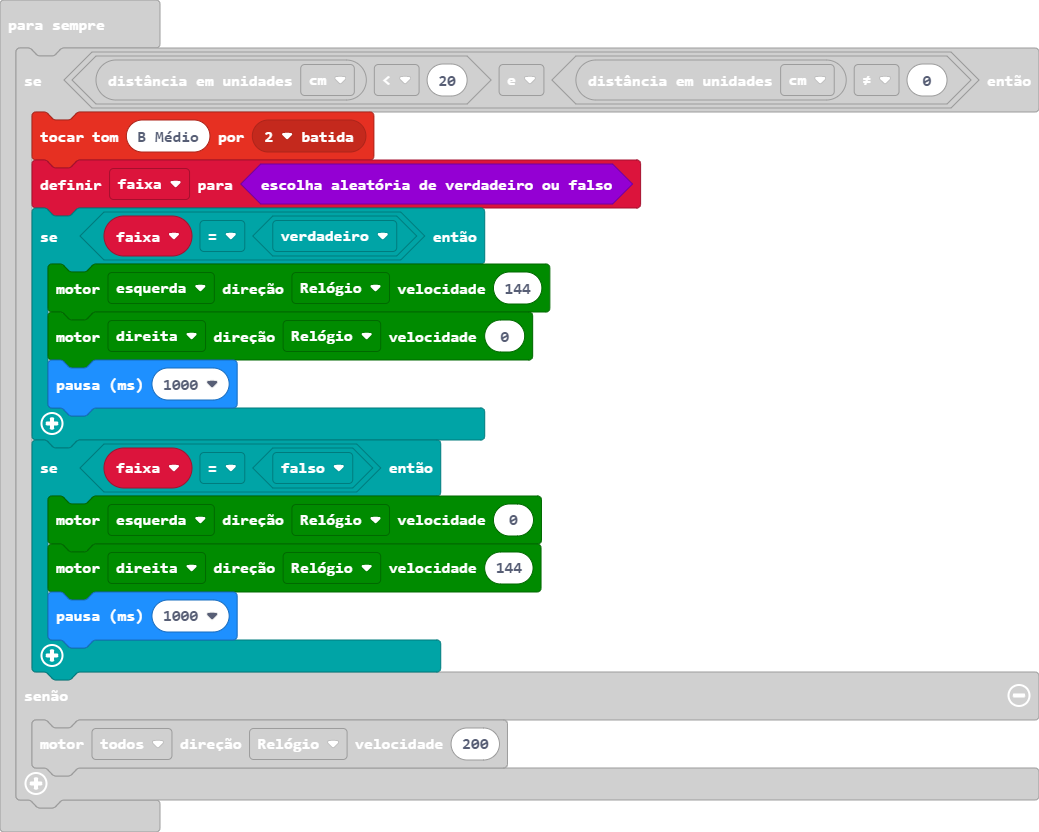
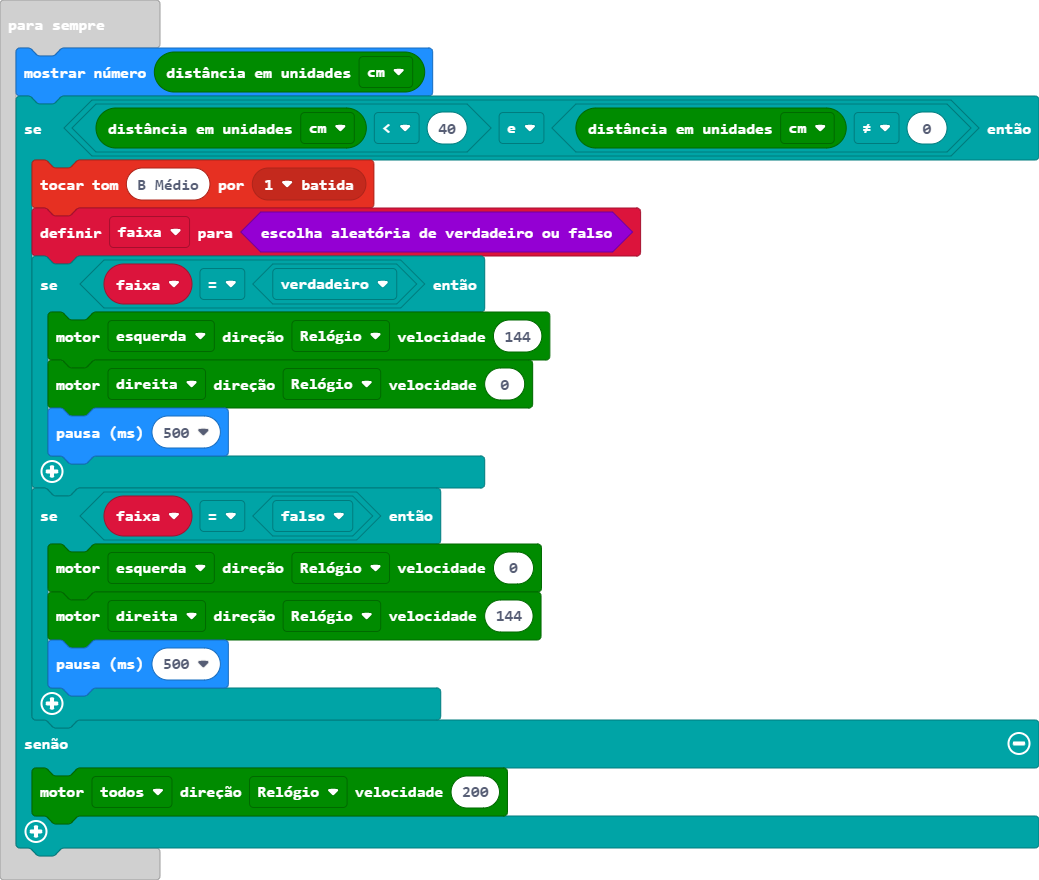
Atualização main.blocks, main.ts

diff --git a/main.ts b/main.ts
@@ -1,17 +1,18 @@
 let faixa = false
 basic.forever(function () {
-    if (maqueen.Ultrasonic(PingUnit.Centimeters) < 20 && maqueen.Ultrasonic(PingUnit.Centimeters) != 0) {
-        music.playTone(494, music.beat(BeatFraction.Double))
+    basic.showNumber(maqueen.Ultrasonic(PingUnit.Centimeters))
+    if (maqueen.Ultrasonic(PingUnit.Centimeters) < 40 && maqueen.Ultrasonic(PingUnit.Centimeters) != 0) {
+        music.playTone(494, music.beat(BeatFraction.Whole))
         faixa = Math.randomBoolean()
         if (faixa == true) {
             maqueen.motorRun(maqueen.Motors.M1, maqueen.Dir.CW, 144)
             maqueen.motorRun(maqueen.Motors.M2, maqueen.Dir.CW, 0)
-            basic.pause(1000)
+            basic.pause(500)
         }
         if (faixa == false) {
             maqueen.motorRun(maqueen.Motors.M1, maqueen.Dir.CW, 0)
             maqueen.motorRun(maqueen.Motors.M2, maqueen.Dir.CW, 144)
-            basic.pause(1000)
+            basic.pause(500)
         }
     } else {
         maqueen.motorRun(maqueen.Motors.All, maqueen.Dir.CW, 200)
